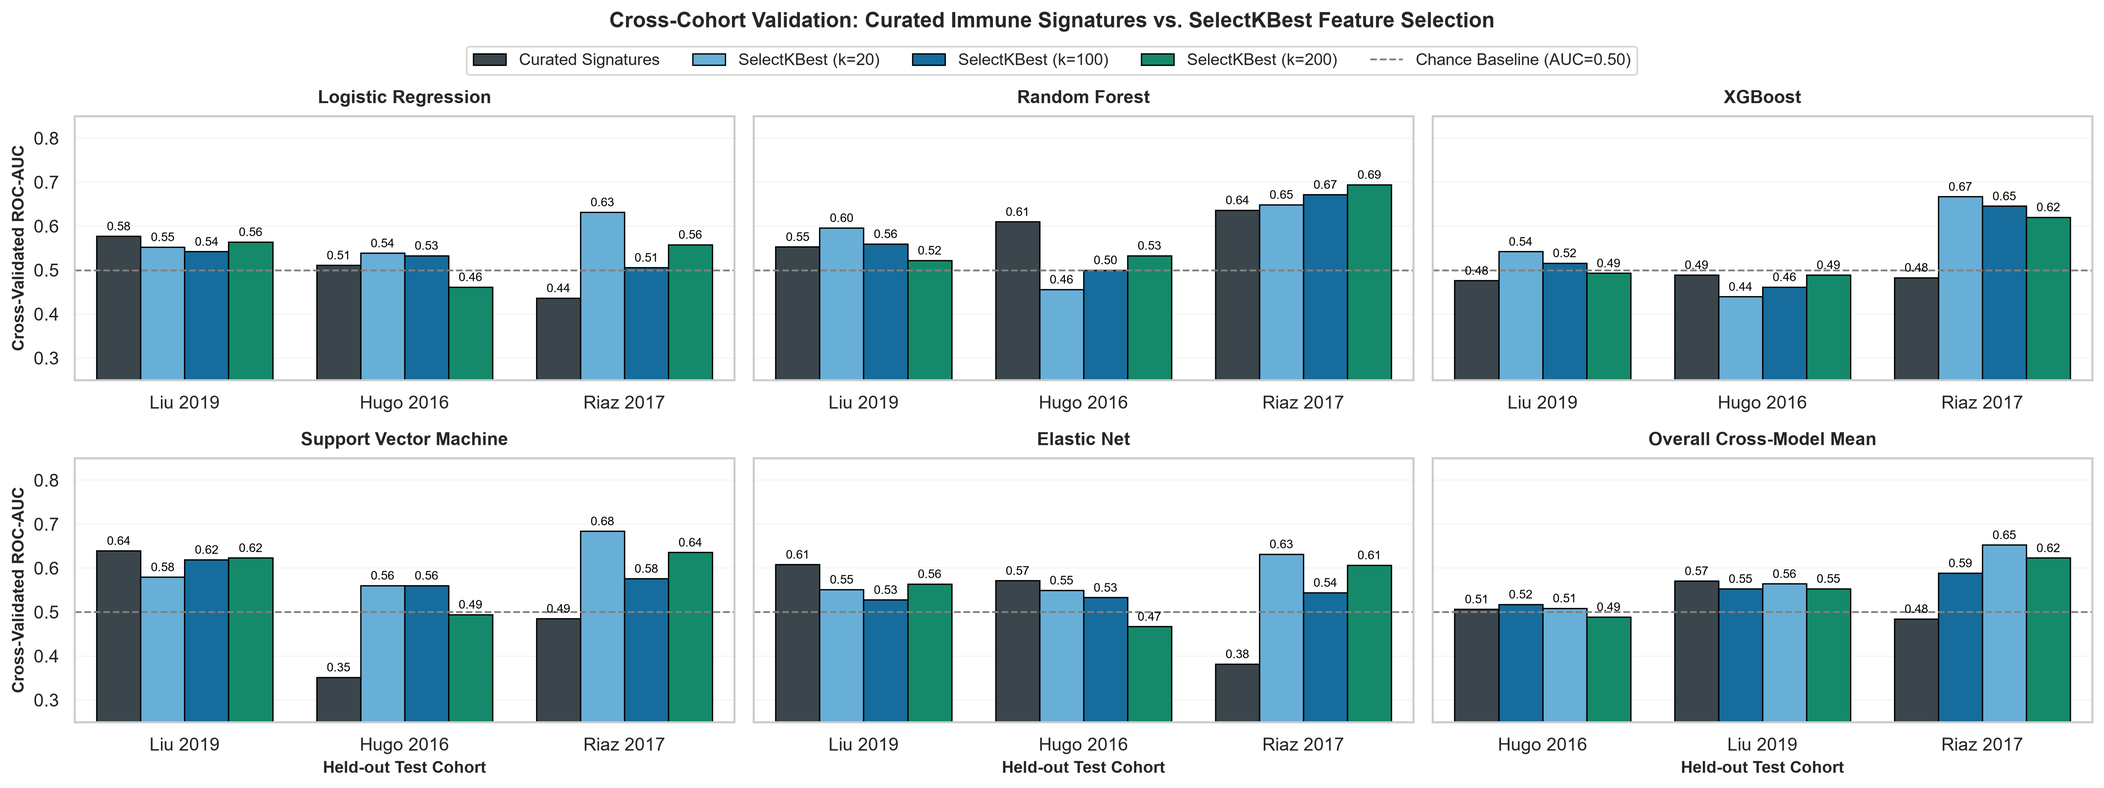
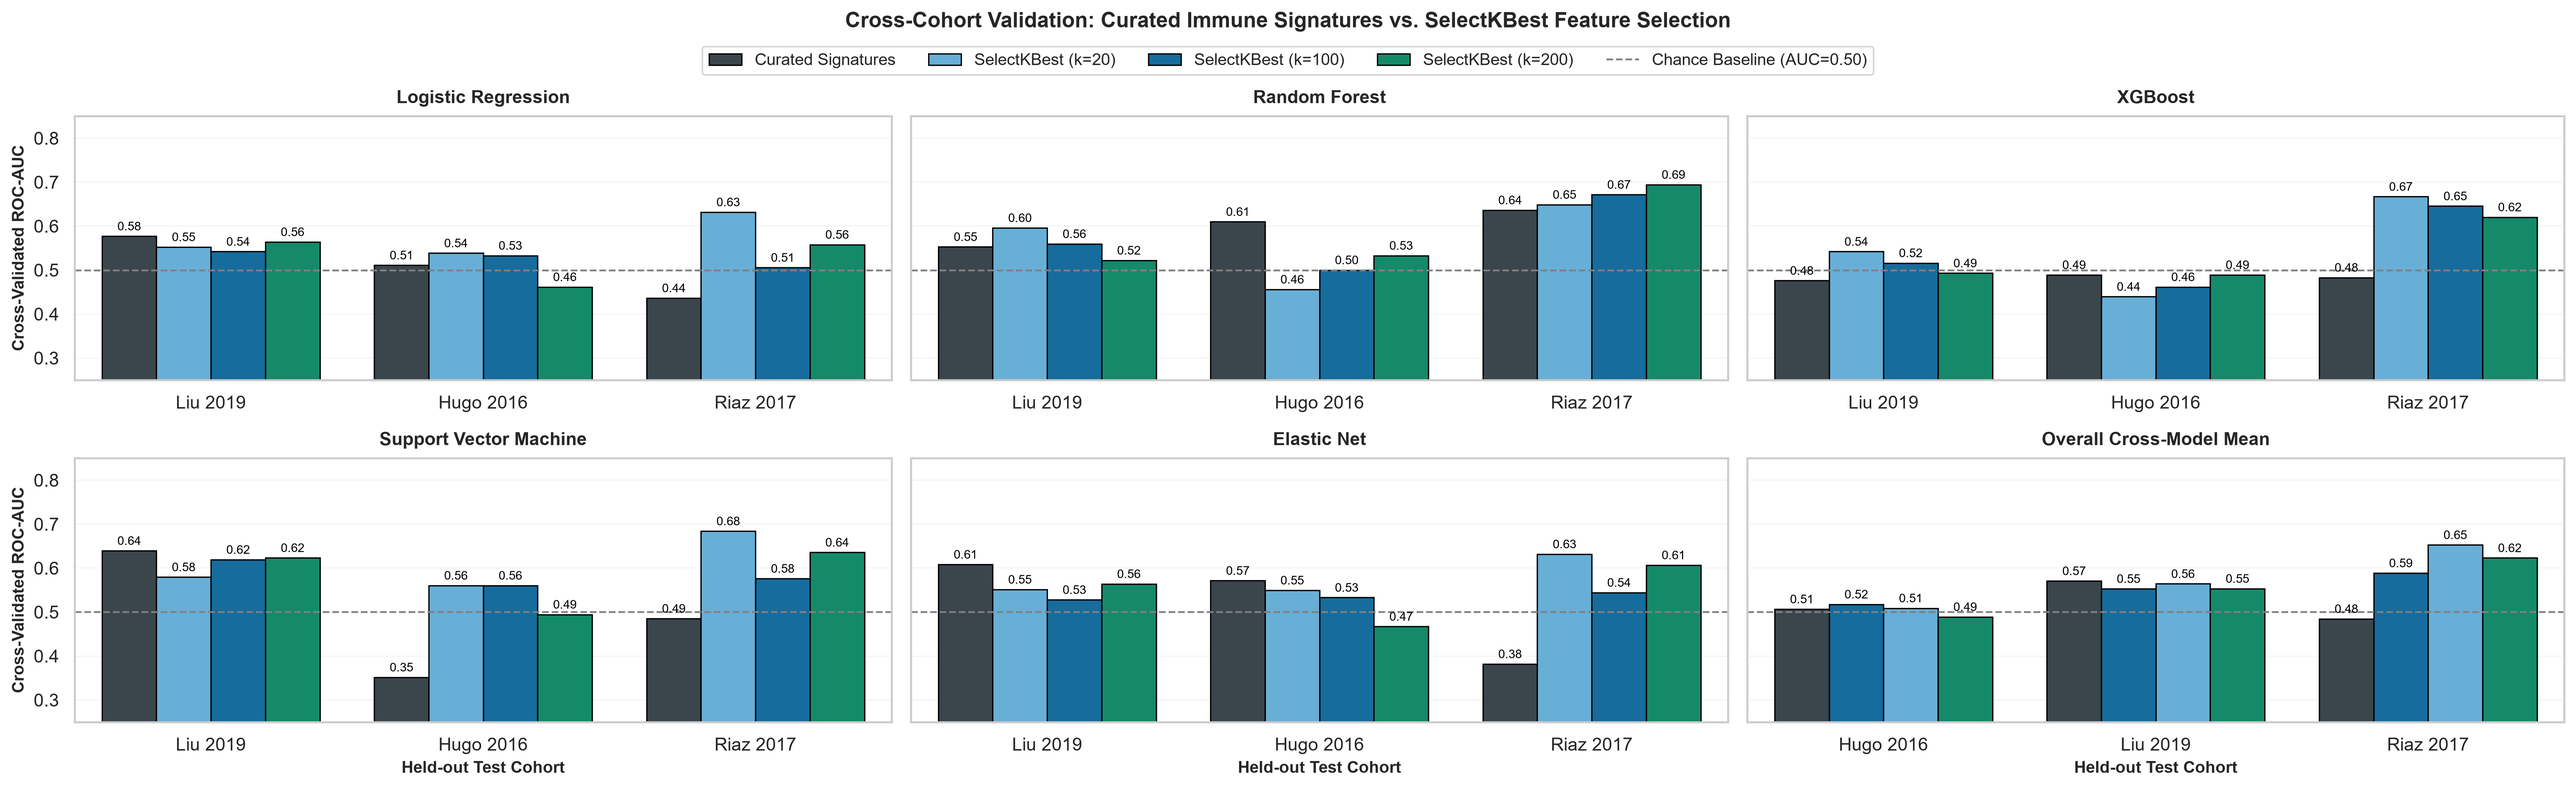
style(plots): expand figure width for signature vs raw selection AUC plots and standardize subproject log paths

diff --git a/src/utils/paths.py b/src/utils/paths.py
@@ -62,9 +62,20 @@ def find_subproject_root(start: Path) -> Path:
     if start.is_file():
         start = start.parent
 
+    known_subprojects = {
+        "q1-response-predictor",
+        "q2-viability-predictor",
+        "q3-ode-model",
+        "q5-patient-stratification",
+        "dashboard",
+    }
+
     for candidate in (start, *start.parents):
-        if (candidate / "scripts").is_dir() or (candidate / "models").is_dir():
+        if candidate.name in known_subprojects:
             return candidate
+        if (candidate / "scripts").is_dir() or (candidate / "models").is_dir():
+            if candidate != find_project_root(start):
+                return candidate
 
     return find_project_root(start)
 
@@ -79,6 +90,15 @@ PROCESSED_DIR = DATA_DIR / "processed"
 LOG_DIR = PROJECT_ROOT / "logs"
 PLOTS_DIR = PROJECT_ROOT / "q1-response-predictor" / "plots"
 REPORTS_DIR = PROJECT_ROOT / "reports"
+
+
+def get_subproject_log_dir(start: Path) -> Path:
+    """Returns the logs/ directory for the subproject containing start, or top-level logs/ if not in a subproject."""
+    sub_root = find_subproject_root(start)
+    if sub_root != PROJECT_ROOT:
+        return sub_root / "logs"
+    return PROJECT_ROOT / "logs"
+
 
 
 def format_relative_path(path: Path) -> str:

diff --git a/q3-ode-model/scripts/phase2_preprocess_data.py b/q3-ode-model/scripts/phase2_preprocess_data.py
@@ -32,7 +32,7 @@ for parent in [SCRIPT_DIR] + list(SCRIPT_DIR.parents):
             sys.path.insert(0, str(parent))
         break
 
-from src.utils.paths import DATA_DIR, LOG_DIR as ROOT_LOG_DIR, PROJECT_ROOT, RAW_DIR, rel_path
+from src.utils.paths import DATA_DIR, PROJECT_ROOT, RAW_DIR, SUBPROJECT_ROOT, rel_path
 
 Q1_SRC = PROJECT_ROOT / "q1-response-predictor" / "src"
 if str(Q1_SRC) not in sys.path:
@@ -71,7 +71,8 @@ except (ImportError, ModuleNotFoundError) as err:
 # Module-level Constants & Definitions
 # ---------------------------------------------------------------------------
 
-LOG_PATH = ROOT_LOG_DIR / "q3_phase2_preprocess.log"
+LOG_DIR = SUBPROJECT_ROOT / "logs"
+LOG_PATH = LOG_DIR / "q3_phase2_preprocess.log"
 TCGA_DIR = RAW_DIR / "skcm_tcga_pan_can_atlas_2018"
 OUT_DIR = SUBPROJECT_ROOT / "data"
 
@@ -280,7 +281,7 @@ def main() -> None:
 
 
 if __name__ == "__main__":
-    ROOT_LOG_DIR.mkdir(parents=True, exist_ok=True)
+    LOG_DIR.mkdir(parents=True, exist_ok=True)
     with open(LOG_PATH, "w", encoding="utf-8") as log_file:
         stdout_tee = TeeStream(sys.stdout, log_file)
         stderr_tee = TeeStream(sys.stderr, log_file)

diff --git a/q5-patient-stratification/scripts/02_feature_analysis.py b/q5-patient-stratification/scripts/02_feature_analysis.py
@@ -54,14 +54,15 @@ from src.styles import (
 )
 from src.utils.io import safe_save_csv
 from src.utils.logging import TeeStream
-from src.utils.paths import LOG_DIR as ROOT_LOG_DIR, PROCESSED_DIR, PROJECT_ROOT, rel_path
+from src.utils.paths import PROCESSED_DIR, PROJECT_ROOT, rel_path
 from src.utils.plotting import save_fig
 
 # ---------------------------------------------------------------------------
 # Module-level Constants & Definitions
 # ---------------------------------------------------------------------------
 
-LOG_PATH = ROOT_LOG_DIR / "02_feature_analysis.log"
+LOG_DIR = SUBPROJECT_ROOT / "logs"
+LOG_PATH = LOG_DIR / "02_feature_analysis.log"
 FEATURE_MATRIX_FILE = PROCESSED_DIR / "q5" / "feature_matrix.csv"
 OUTPUT_DIR = PROCESSED_DIR / "q5"
 PLOTS_DIR = SUBPROJECT_ROOT / "plots" / "feature_analysis"
@@ -544,7 +545,7 @@ def main() -> None:
 
 
 if __name__ == "__main__":
-    ROOT_LOG_DIR.mkdir(parents=True, exist_ok=True)
+    LOG_DIR.mkdir(parents=True, exist_ok=True)
     with open(LOG_PATH, "w", encoding="utf-8") as log_file:
         stdout_tee = TeeStream(sys.stdout, log_file)
         stderr_tee = TeeStream(sys.stderr, log_file)

diff --git a/q1-response-predictor/scripts/exploratory_plots/run_comparison.py b/q1-response-predictor/scripts/exploratory_plots/run_comparison.py
@@ -39,13 +39,14 @@ from src.data_loaders import load_hugo_2016, load_liu_2019, load_riaz_2017
 from src.signatures import extract_all_signatures
 from src.styles import COHORT_PALETTE, FEATURE_SELECTION_PALETTE, RESPONSE_PALETTE, set_presentation_style
 from src.utils.logging import TeeStream
-from src.utils.paths import DATA_DIR, LOG_DIR, PLOTS_DIR, REPORTS_DIR
+from src.utils.paths import DATA_DIR, PLOTS_DIR, REPORTS_DIR, SUBPROJECT_ROOT
 from src.utils.plotting import save_fig
 
 set_presentation_style()
 
 # Module-level Constants
 PLOT_DIR = PLOTS_DIR / "feature_selection"
+LOG_DIR = SUBPROJECT_ROOT / "logs"
 LOG_PATH = LOG_DIR / "run_comparison.log"
 
 
@@ -175,7 +176,7 @@ def _plot_comparison_results(df_results: pd.DataFrame, out_plot_path: Path) -> N
         df_results: Results DataFrame containing LOCO AUC scores.
         out_plot_path: Destination path for figure output artifact.
     """
-    fig, axes = plt.subplots(2, 3, figsize=(18, 6.5), sharey=True)
+    fig, axes = plt.subplots(2, 3, figsize=(22, 6.5), sharey=True)
     axes_flat = axes.flatten()
 
     models = ["LR", "RF", "XGB", "SVM", "ElasticNet"]

diff --git a/q1-response-predictor/scripts/biomarkers/generate_loco_heatmap.py b/q1-response-predictor/scripts/biomarkers/generate_loco_heatmap.py
@@ -37,7 +37,7 @@ from src.models import run_loco_cv
 from src.signatures import extract_all_signatures, zscore_df
 from src.styles import set_presentation_style
 from src.utils.logging import TeeStream
-from src.utils.paths import DATA_DIR, LOG_DIR, PLOTS_DIR, rel_path
+from src.utils.paths import DATA_DIR, PLOTS_DIR, SUBPROJECT_ROOT, rel_path
 from src.utils.plotting import save_fig
 
 set_presentation_style()
@@ -65,6 +65,7 @@ HEATMAP_LABEL_SIZE: int = 11
 
 OUTPUT_PLOT_DIR: Path = PLOTS_DIR / "models"
 DEFAULT_OUTPUT_PATH: Path = OUTPUT_PLOT_DIR / "loco_performance_heatmap.png"
+LOG_DIR: Path = SUBPROJECT_ROOT / "logs"
 LOG_PATH: Path = LOG_DIR / "generate_loco_heatmap.log"
 
 

diff --git a/q1-response-predictor/scripts/biomarkers/run_extended_biomarkers.py b/q1-response-predictor/scripts/biomarkers/run_extended_biomarkers.py
@@ -25,11 +25,11 @@ from xgboost import XGBClassifier
 # subproject, as data/ lives one level up at the project root.
 _THIS_FILE = Path(__file__).resolve()
 for _candidate in [_THIS_FILE.parent] + list(_THIS_FILE.parent.parents):
-    if (_candidate / "src" / "config").exists():
+    if _candidate.name == "q1-response-predictor":
         BASE_DIR = _candidate
         break
 else:
-    raise FileNotFoundError(f"Could not locate project root above {_THIS_FILE}")
+    raise FileNotFoundError(f"Could not locate q1-response-predictor subproject root above {_THIS_FILE}")
 
 if str(BASE_DIR) not in sys.path:
     sys.path.append(str(BASE_DIR))

diff --git a/PROJECT_MAP.md b/PROJECT_MAP.md
@@ -300,7 +300,7 @@ npm run build
 | `src/styles.py` L53 & L178 | Duplicate `get_phenotype_color()` definitions | **Resolved** (2026-08-01) |
 | `q5/src/reporting.py` | Local `generate_obsidian_frontmatter()` duplicated `src/utils/formatting.py` | **Resolved** (2026-08-01) |
 | `q5/src/phenotyping.py` | Uncalled exports (`plot_radar_chart()`, `plot_cluster_heatmap()`) | Unresolved |
-| `run_pipeline.py` (Q1) | Still writes log to project root instead of `logs/` directory | Unresolved |
+| Subproject log routing (`q1`, `q3`, `q5`) | Standardised `LOG_DIR` and `LOG_PATH` across all subproject scripts (`q1-response-predictor`, `q3-ode-model`, `q5-patient-stratification`) to output logs to each subproject's dedicated `logs/` directory (`<subproject>/logs/`) instead of top-level `PROJECT_ROOT/logs/`. Fixed root bootstrap `BASE_DIR` resolution in Q1 biomarker/exploratory scripts and `src/utils/paths.py` `find_subproject_root()` recognition. | **Resolved** (2026-08-03) |
 
 ## Conventions Quick Reference
 
